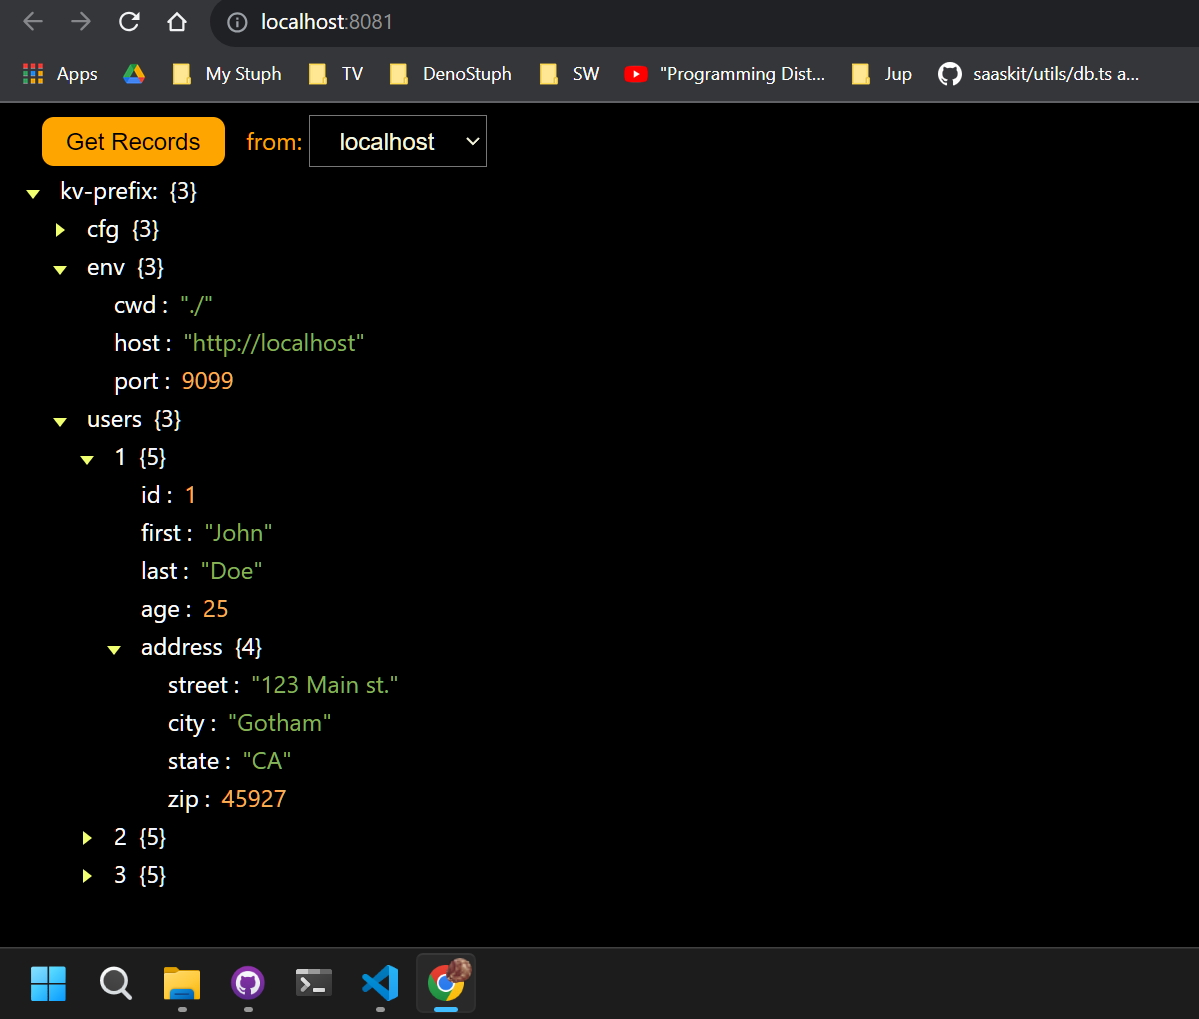
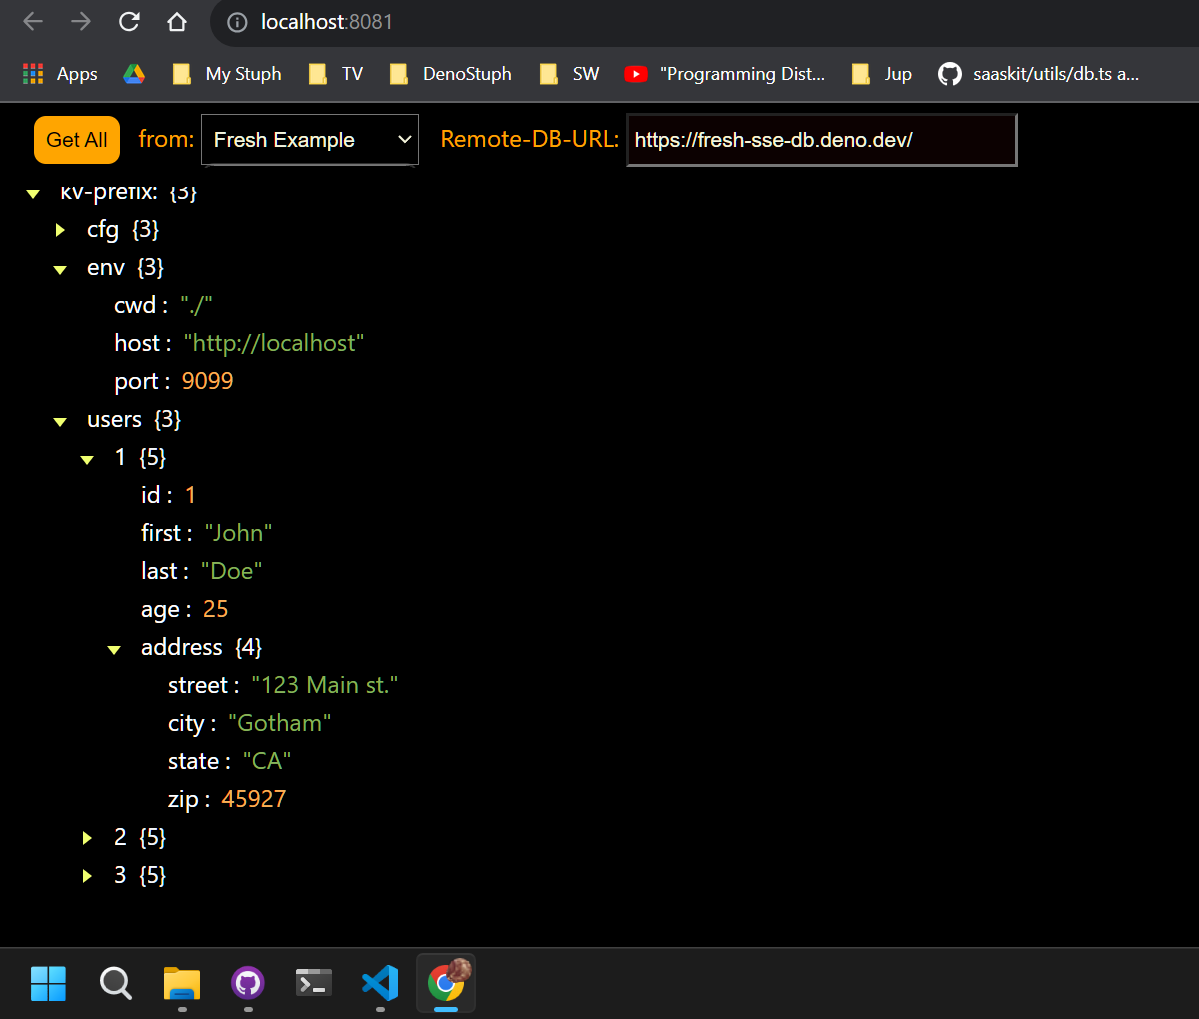
update readme

Changed region(s): [[0.0309, 0.0913, 0.7715, 0.1825]]

diff --git a/README.md b/README.md
@@ -40,7 +40,7 @@ Select a DB source. (note: localhost requires starting a local test server)
 
 ![Alt text](selectDB.png)
 
-Next, click the **Get Records** button.    
+Next, click the **Get All** button.    
 
 ![Alt text](clickToFetch.png)    
 
